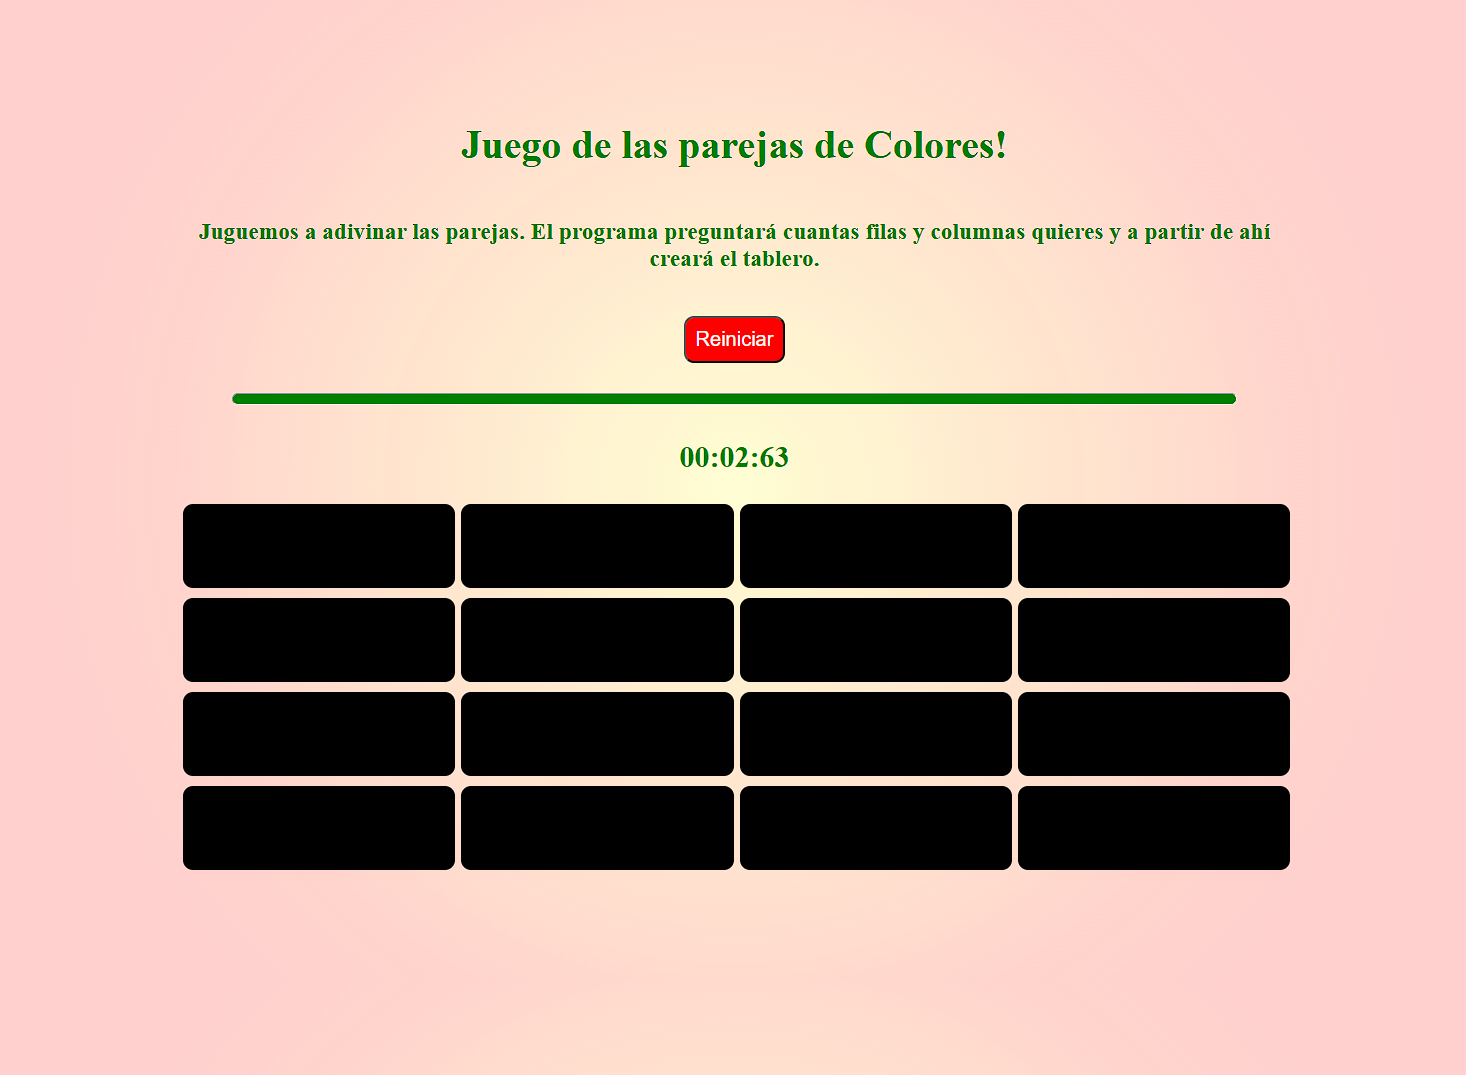
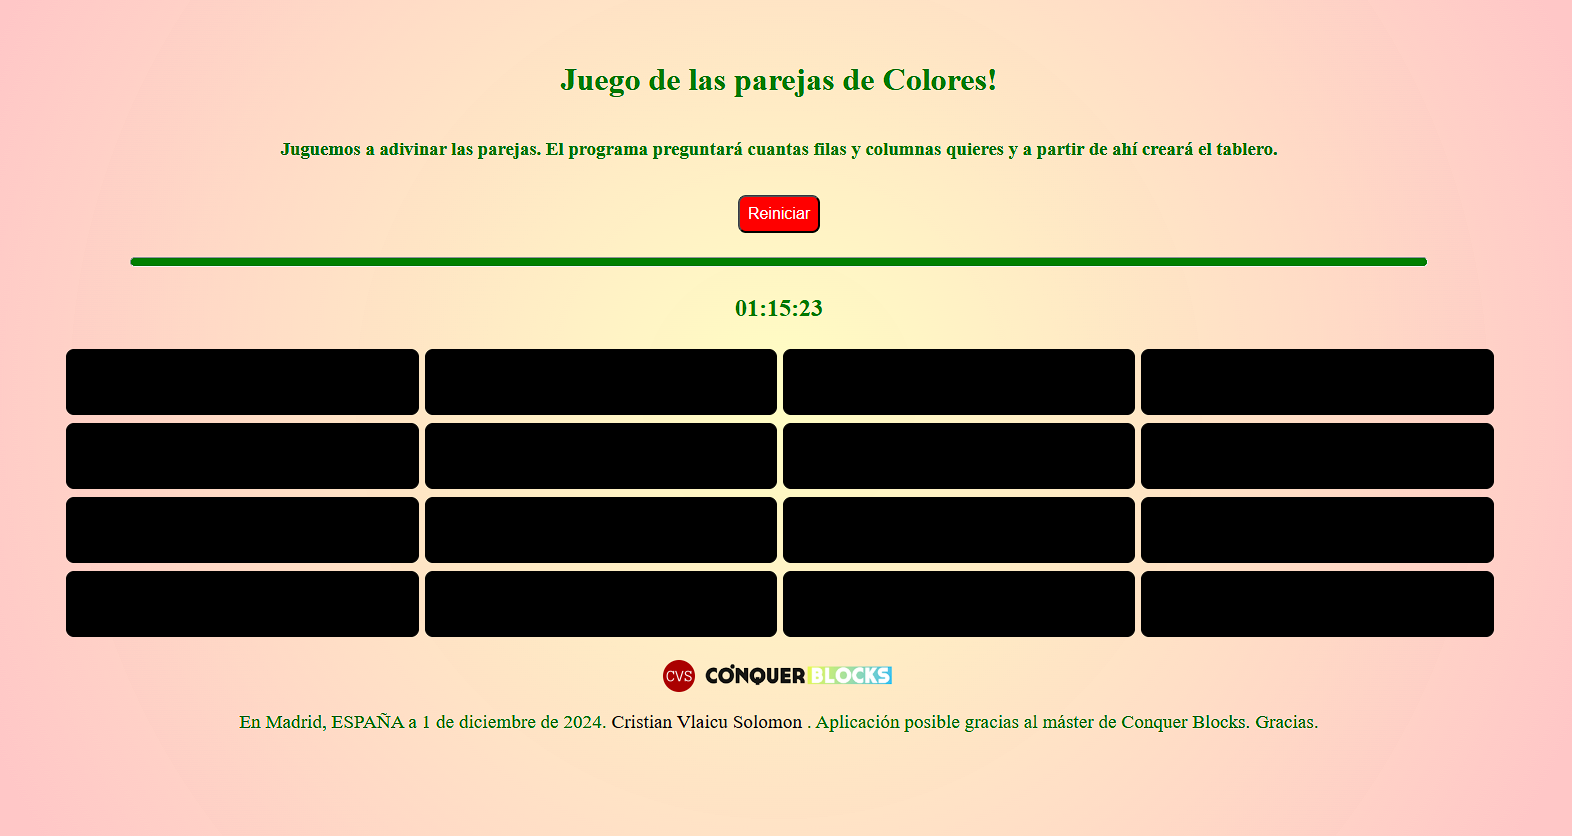
update screenshots and README.

Changed region(s): [[0.0307, 0.0933, 0.9516, 0.8708]]

diff --git a/README.md b/README.md
@@ -9,9 +9,10 @@
 
 &nbsp;&nbsp;👉 Podéis clonar el repositorio o descargar el archivo zip para así abrirlo con vuestro IDE favorito y lanzarlo con live server por ejemplo; o también podéis clicar directamente en la url de Netlify para que se abra directamente en vuestro navegador el juego: <a target="_blank" href="https://pairs-conquer-vlaicu.netlify.app/" ><b>https://pairs-conquer-vlaicu.netlify.app/</b></a>
 
-&nbsp;&nbsp;👉 Todos los archivos de los códigos de JavaScript están comentados para que se pueda seguir paso a paso la lógica del juego. También agrego dos capturas de pantalla del juego:
+&nbsp;&nbsp;👉 Todos los archivos de los códigos de JavaScript están comentados para que se pueda seguir paso a paso la lógica del juego. También agrego tres capturas de pantalla del juego:
 
 <img src="pairs1.png" alt="Descripción" width="700"/>
 <img src="pairs2.png" alt="Descripción" width="700"/>
+<img src="pairs3.png" alt="Descripción" width="700"/>
 
 </p>
